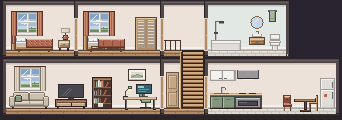
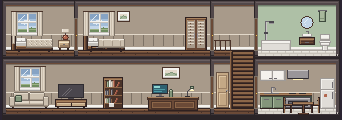
Align the detective office floors and seat Jian behind a walnut counter [skip ci]

diff --git a/prototype/map-test/autumn_home.js b/prototype/map-test/autumn_home.js
@@ -10,19 +10,19 @@ const autumnHome=(function(){
  const SPOTS={
   bed:{name:'客房床铺',rect:[11,32,42,20],x:30,y:50,act:'sleep',need:'energy',hide:true},
   jianBed:{name:'阿简的床',rect:[83,32,42,20],x:131,y:50,look:['这是阿简的床。我的床在隔壁。']},
-  wardrobe:{name:'衣柜',rect:[135,17,22,34],x:146,y:50,act:'season_tidy',need:'fun'},
-  bath:{name:'浴缸',rect:[211,24,31,29],x:226,y:50,act:'bath',need:'hygiene',hide:true},
-  sink:{name:'洗手台',rect:[248,30,18,16],x:257,y:50,act:'wash',need:'hygiene'},
-  wc:{name:'卫生间',rect:[267,30,16,24],x:275,y:50,act:'toilet',need:'bladder',face:-1},
+  wardrobe:{name:'衣柜',rect:[185,17,22,34],x:196,y:50,act:'season_tidy',need:'fun'},
+  bath:{name:'浴缸',rect:[261,24,31,29],x:276,y:50,act:'bath',need:'hygiene',hide:true},
+  sink:{name:'洗手台',rect:[298,30,18,16],x:307,y:50,act:'wash',need:'hygiene'},
+  wc:{name:'卫生间',rect:[317,30,16,24],x:325,y:50,act:'toilet',need:'bladder',face:-1},
   sofa:{name:'沙发',rect:[9,90,40,19],x:28,y:108,act:'season_sofa',need:'fun',face:1},
-  table:{name:'餐桌',rect:[283,96,32,17],x:287,y:108,act:'eat',need:'hunger',face:1},
+  table:{name:'餐桌',rect:[283,102,36,13],x:287,y:108,act:'eat',need:'hunger',face:1},
   tv:{name:'电视',rect:[55,84,32,25],x:28,y:108,act:'tv',need:'fun',face:1},
-  desk:{name:'接待前台',rect:[123,82,34,28],x:126,y:108,look:['来访登记簿摊在台灯下面。','桌上的卷宗都按日期排好了。']},
-  counter:{name:'水槽',rect:[210,92,24,17],x:222,y:108,act:'wash',need:'hygiene',face:1},
-  stove:{name:'灶台',rect:[234,92,27,17],x:229,y:108,act:'cook',need:'hunger',face:1},
+  desk:{name:'接待前台',rect:[147,81,52,30],x:149,y:108,look:['来访登记簿摊在台灯下面。','桌上的卷宗都按日期排好了。']},
+  counter:{name:'水槽',rect:[260,87,24,15],x:272,y:108,act:'wash',need:'hygiene',face:1},
+  stove:{name:'灶台',rect:[284,88,27,14],x:289,y:108,act:'cook',need:'hunger',face:1},
   fridge:{name:'冰箱',rect:[320,78,16,31],x:322,y:108,act:'snack',need:'hunger',face:1,log:'从阿简的冰箱里找了点现成的。'},
   window:{name:'窗户',rect:[11,10,32,22],x:26,y:50,look:['外面的烟囱还在冒烟','楼下有人在搬货']},
-  exit:{name:'出门',rect:[166,72,14,36],x:172,y:108}
+  exit:{name:'出门',rect:[216,72,14,36],x:222,y:108}
  };
  const NEED_SPOT={energy:'bed',hygiene:'bath',bladder:'wc',hunger:'stove',fun:'sofa'};
  const spots=Object.entries(SPOTS).map(([id,p])=>({id,...p}));
@@ -40,7 +40,7 @@ const autumnHome=(function(){
  }
  function arrived(id){const p=SPOTS[id],s=S();if(!p)return;
   if(p.look){speakCity(pick(p.look));return;}
-  const auto=!!s.lastAuto;s.x=p.x;s.y=p.y;s.facing=p.face||(p.x>172?1:-1);svc={id,act:p.act};s.homeSpot=id;s.iy=({tv:-3,sofa:-3,table:-4,wc:-3})[id]||0;s.hideHero=!!p.hide;
+  const auto=!!s.lastAuto;s.x=p.x;s.y=p.y;s.facing=p.face||(p.x>222?1:-1);svc={id,act:p.act};s.homeSpot=id;s.iy=({tv:-3,sofa:-3,table:-4,wc:-3})[id]||0;s.hideHero=!!p.hide;
   seasonHouse.start(p.act,{auto,log:p.log});}
  function speakCity(t){showHint(t);}
  // the city's care(need) and the door bring her here
@@ -54,7 +54,7 @@ const autumnHome=(function(){
   use(id,false);}
  // ---------------------------------------------------------------- drawing (house px, inside only)
  const SLEEPY={expr:'sleepy',look:0,bob:0,sway:0,wave:null};
- const MEAL_AT=[300,86],COOK_FX=[240,80],PILLOW=[12,32],TUB_RIM=40;
+ const MEAL_AT=[299,89],COOK_FX=[290,80],PILLOW=[12,32],TUB_RIM=40;
  function under(ctx){drawResident(ctx);seasonHouse.cookFx(ctx,COOK_FX[0],COOK_FX[1]);seasonHouse.meal(ctx,MEAL_AT[0],MEAL_AT[1]);}
  function over(ctx){const s=S();
   if(svc&&!s.goal){
@@ -73,7 +73,7 @@ const autumnHome=(function(){
   if(minute>=720&&minute<780||minute>=1080&&minute<1140)return {id:'meal',x:313,y:108};
   if(minute>=1140)return {id:'rest',x:41,y:108};
   if(!story.progress.done.includes('S03'))return null; // 阿简 left for the mine immediately after the introduction.
-  return {id:'work',x:145,y:108};
+  return {id:'work',x:175,y:108};
  }
  function tickResident(dt){
   const goal=residentGoal(),s=S();
@@ -82,7 +82,7 @@ const autumnHome=(function(){
   let budget=WALK*dt;
   for(let leg=0;leg<3&&budget>0;leg++){
    const changingFloor=r.y!==goal.y;
-   const x=changingFloor?193:goal.x,y=changingFloor&&r.x!==193?r.y:goal.y;
+   const x=changingFloor?243:goal.x,y=changingFloor&&r.x!==243?r.y:goal.y;
    const dx=x-r.x,dy=y-r.y,d=Math.hypot(dx,dy);
    if(!d)break;
    const step=Math.min(d,budget);
@@ -100,14 +100,14 @@ const autumnHome=(function(){
    ctx.drawImage(sprite,0,0,DW,15,0,0,DW,15);ctx.restore();
    seasonHouse.sleepFx(ctx,101,20);
   }else{
-   ctx.drawImage(sprite,x-DW/2,y-DH+(resting?-2:1));
-   if(resting&&goal.id==='meal')ctx.drawImage(frameOf(IMG.fx.meal,4),304,86);
-   if(resting&&goal.id==='work'&&officeImage.naturalWidth)ctx.drawImage(officeFront(),123,97);
+   ctx.drawImage(sprite,x-DW/2,y-DH+(resting?(goal.id==='work'?-7:-2):1));
+   if(resting&&goal.id==='meal')ctx.drawImage(frameOf(IMG.fx.meal,4),304,89);
+   if(resting&&goal.id==='work'&&officeImage.naturalWidth)ctx.drawImage(officeFront(),147,97);
   }
  }
  function officeFront(){
-  if(!officeFront.image){const c=document.createElement('canvas');c.width=34;c.height=13;
-   c.getContext('2d').drawImage(officeImage,123,97,34,13,0,0,34,13);officeFront.image=c;}
+  if(!officeFront.image){const c=document.createElement('canvas');c.width=52;c.height=14;
+   c.getContext('2d').drawImage(officeImage,147,97,52,14,0,0,52,14);officeFront.image=c;}
   return officeFront.image;
  }
  const officeImage=new Image();officeImage.src=C().DATA.inside;
@@ -158,7 +158,11 @@ const autumnHome=(function(){
    if(saved?.mode==='act'&&p?.act===saved.act&&Number.isFinite(saved.actEnd)&&saved.actEnd>sim.t){
     Object.assign(sim,{mode:'act',act:p.act,actEnd:saved.actEnd,nap:!!saved.nap});
     svc={id,act:p.act};s.x=p.x;s.y=p.y;s.hideHero=!!p.hide;
-   }else{s.hideHero=false;s.iy=0;s.homeSpot=null;}
+   }else{
+    s.hideHero=false;s.iy=0;s.homeSpot=null;
+    const goal=s.goal,spot=goal?.id==='exit_inside'?SPOTS.exit:goal?.id==='home_use'?SPOTS[goal.spot]:null;
+    if(spot)C().goTo(spot.x,spot.y,goal);
+   }
   }
   return result;
  };

diff --git a/prototype/autumn/game.js b/prototype/autumn/game.js
@@ -94,7 +94,7 @@ function makeSeason_autumn(opts, DATA) {
         }
     }
     // Both floors connect at the central stair landing.
-    const indoorNodes = [{x:18,y:108},{x:140,y:108},{x:172,y:108},{x:193,y:108},{x:326,y:108},{x:193,y:50},{x:18,y:50},{x:225,y:50},{x:275,y:50}];
+    const indoorNodes = [{x:18,y:108},{x:140,y:108},{x:222,y:108},{x:243,y:108},{x:326,y:108},{x:243,y:50},{x:18,y:50},{x:275,y:50},{x:325,y:50}];
     const indoorPairs = [[0,1],[1,2],[2,3],[3,4],[3,5],[5,6],[5,7],[7,8]];
     function graph() {
         if (!state.inside) return {
@@ -342,7 +342,7 @@ function makeSeason_autumn(opts, DATA) {
     }
     function leave() {
         close();
-        goTo(172, 108, {
+        goTo(222, 108, {
             id: "exit_inside"
         });
     }
@@ -431,12 +431,12 @@ function makeSeason_autumn(opts, DATA) {
     }
     const indoorSpots = [
       {id:"bed",name:"客房床铺",x:30,y:50,rect:[11,32,42,20],need:"energy"},
-      {id:"bath",name:"浴缸",x:225,y:50,rect:[211,18,31,35],need:"hygiene"},
-      {id:"wc",name:"卫生间",x:275,y:50,rect:[268,30,16,24],need:"bladder"},
-      {id:"kitchen",name:"厨房",x:240,y:108,rect:[209,69,76,42],need:"hunger"},
+      {id:"bath",name:"浴缸",x:275,y:50,rect:[261,18,31,35],need:"hygiene"},
+      {id:"wc",name:"卫生间",x:325,y:50,rect:[318,30,16,24],need:"bladder"},
+      {id:"kitchen",name:"厨房",x:290,y:108,rect:[259,69,76,42],need:"hunger"},
       {id:"sofa",name:"沙发",x:28,y:108,rect:[9,90,40,19],need:"social"},
       {id:"books",name:"电视",x:28,y:108,rect:[55,84,32,25],need:"fun"},
-      {id:"exit",name:"出门",x:172,y:108,rect:[166,72,14,36]}
+      {id:"exit",name:"出门",x:222,y:108,rect:[216,72,14,36]}
     ];
     function insideVisit(need) {
         if (opts.home) return opts.home.need(need);   // the game shell: the home's own acts (map-test/autumn_home.js)
@@ -544,7 +544,7 @@ function makeSeason_autumn(opts, DATA) {
         if (!d.mid && d.elapsed >= .3) {
             d.mid = true;
             state.inside = d.to;
-            state.x = d.to ? 172 : landmark("detective_home").x;
+            state.x = d.to ? 222 : landmark("detective_home").x;
             state.y = d.to ? 108 : landmark("detective_home").y;
             state.camX = d.to ? 0 : state.x - 171;
             state.camY = d.to ? 0 : state.y - 118;
@@ -800,7 +800,7 @@ function makeSeason_autumn(opts, DATA) {
                 pose: null,
                 walk: false
             }, null);
-            ctx.drawImage(headCanvas, 0, 0, 20, 15, 218, 26, 20, 15);
+            ctx.drawImage(headCanvas, 0, 0, 20, 15, 268, 26, 20, 15);
         } else if (state.inside && state.service?.need === "energy") {
             ctx.save();
             ctx.translate(42, 44);
@@ -978,6 +978,9 @@ function makeSeason_autumn(opts, DATA) {
         }
         state.liftY = clamp(Number(state.liftY) || DATA.lift.bottom, DATA.lift.top, DATA.lift.bottom);
         state.riding = false;
+        // Older office saves may be halfway up the previous stairwell.
+        if (state.inside && state.y > 50 && state.y < 108) state.x = 243;
+        if (state.resident?.y > 50 && state.resident.y < 108) state.resident.x = 243;
         const p = nearest(state.x, state.y);
         state.x = p.x;
         state.y = p.y;

diff --git a/prototype/autumn/v4/director.js b/prototype/autumn/v4/director.js
@@ -679,7 +679,7 @@
   function relocate(loc, inside = false) {
     const pos = where(loc);
     world.inside = inside;
-    world.x = inside ? 172 : pos.x;
+    world.x = inside ? 222 : pos.x;
     world.y = inside ? 108 : pos.y;
     city.clearRoute();
     world.camX = inside

diff --git a/art/src/concept/autumn_city.py b/art/src/concept/autumn_city.py
@@ -1544,17 +1544,27 @@ def polluted_city():return city_layers(0,True)[0]
 def detective_inside():
  import friend_houses as FH
  import _furniture as F
- plan=('detective','阿简的侦探事务所',342,'双卧室与接待大厅','oak',[
-  [('guest_bed',6,68),('bed',78,82),('stair',164,40),('bath',208,78)],
-  [('reception',6,154),('entry_stair',164,40),('kitchen',208,128)]])
+ plan=('detective','阿简的侦探事务所',342,'双卧室与接待大厅','library',[
+  [('guest_bed',6,68),('bed',78,132),('stair',214,40),('bath',258,78)],
+  [('reception',6,204),('entry_stair',214,40),('kitchen',258,78)]])
  _,bg,front=FH.draw_plan(plan)
  room=Sprite(342,120,P.cut[0]);room.blit(bg,0,0)
+ # A raised walnut counter with two recessed panels and a continuous plinth.
+ desk=Sprite(52,14);wood=P.walnut
+ desk.rect(1,2,50,12,wood[0]).rect(2,3,48,10,wood[2])
+ for x in (4,27):
+  desk.rect(x,4,21,8,wood[1]).rect(x+1,5,19,6,wood[3]).rect(x+2,6,17,4,wood[2])
+ desk.rect(0,0,52,3,wood[1]).hline(1,50,0,wood[4]).hline(2,49,12,wood[1])
  for sprite,x,bottom in [(F.window(),14,92),(F.sofa(),9,109),(F.media_console(),55,109),
-                         (F.tv(),58,99),(F.bookshelf(),92,109),(F.office_chair(),139,109),
-                         (F.desk(),123,110),(F.monitor(),136,97),(F.desk_lamp(True),123,97),
-                         (F.art_print(18,12,'hills'),128,81),(F.chair('left'),309,111)]:
+                         (F.tv(),58,99),(F.bookshelf(),103,109),(F.office_chair(),169,109),
+                         (desk,147,111),(F.monitor(),152,97),(F.desk_lamp(True),185,97),
+                         (F.art_print(18,12,'hills'),162,79),(F.chair(),283,113),
+                         (F.chair('left'),311,113),(F.dining_table(),292,115)]:
   room.blit(sprite,x,bottom-sprite.h)
  room.blit(front,0,0)
+ room.recolor({**dict(zip(P.plaster_bed,[P.walnut[2],P.oat[0],P.oat[1],P.wall_cream[1]])),
+               **dict(zip(P.plaster_bath,P.wall_sage)),**dict(zip(P.oak,P.walnut))})
+
  return room
 
 def build():

diff --git a/docs/AGENT_LOG.md b/docs/AGENT_LOG.md
@@ -6,6 +6,10 @@ owner decisions made, what was not tested. Keep older entries; trim beyond ~40 e
 
 ---
 
+## 2026-11-21 · 栗尾市事务所布局复修
+- 厨卫在最右上下对齐，楼梯东移 50 像素，两层左翼扩大；前台改为深胡桃木实心柜台。
+- 同步室内出入、家具交互、阿简动线和旧档楼梯坐标；预览仍在栗尾市内测页。
+
 ## 2026-11-21 · 栗尾市落地与事务所
 - 首次抵达自动在停机坪开始 S02，演出优先于红色需求；旧档未看的落地剧情也能补上。结局和后续自由起居沿用原触发。
 - 事务所改为接待前台、小电视区、双卧和双座餐桌。阿简使用专属床位，按时到前台、餐桌、沙发和床，楼层间走中央楼梯。

diff --git a/docs/SEASON_MAP_STANDARD.md b/docs/SEASON_MAP_STANDARD.md
@@ -87,3 +87,5 @@
 
 ## 草帽湾音乐定稿（用户 2026-11-06，明确仅限草帽湾）
 草帽湾夏季室外：《向着海风出发·全新管弦流行曲》；草帽湾所有季节室内：《赤脚走过星期天》；草帽湾秋季室外：《沿着晴天走很远·热带海岸版》。按游戏日期季节和湾内 inside 状态切换。茵菲谷、栗尾市、主世界及机场音乐保持原有配置。正式音频在 AUDIO_LIBRARY/BGM/seasons；路由由 make_season_game_test.py 注入。
+
+栗尾市事务所采用深木色。卫生间靠最右，与楼下厨房等宽、等高；楼梯紧挨两间左侧。大厅前台用整面木柜板遮住坐姿阿简的下半身。
